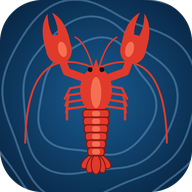
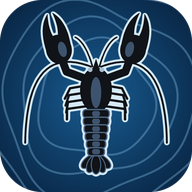
Gjør hummeren i app-ikonet svart
Levende hummer er svart, ikke rød. Hummeren har blågrå glans på ryggen
og en tynn lys kant rundt, så den synes mot det mørke havet også i små
størrelser.

Changed region(s): [[0.0938, 0.0625, 0.9062, 0.9375]]

diff --git a/scripts/lag_ikoner.py b/scripts/lag_ikoner.py
@@ -1,7 +1,8 @@
 """Tegn app-ikonene (PNG) til app/ikoner/.
 
-Motiv: rød hummer sett ovenfra på mørkt hav med dybdekurver. Tegnes i stor
-størrelse og skaleres ned, så kantene blir glatte.
+Motiv: svart hummer (slik den er levende, før den kokes) sett ovenfra på mørkt
+hav med dybdekurver. Hummeren har blågrå glans og en lys kant rundt, så den synes
+mot havet. Tegnes i stor størrelse og skaleres ned, så kantene blir glatte.
 
   ikon-192.png, ikon-512.png  vanlige ikoner (avrundede hjørner)
   ikon-maskable-512.png       Android «adaptive icon»: helt utfylt, motivet innenfor trygg sone
@@ -14,7 +15,7 @@ Kjør fra roten av repoet:  python scripts/lag_ikoner.py
 import math
 import sys
 
-from PIL import Image, ImageDraw
+from PIL import Image, ImageDraw, ImageFilter
 
 from config import ROOT
 
@@ -23,10 +24,11 @@ UT = ROOT / "app" / "ikoner"
 HAV_GRUNT = (24, 92, 146)   # midt i ikonet
 HAV_DYPT = (7, 32, 60)      # ut mot kantene
 KURVE = (127, 184, 224, 95)
-HUMMER = (224, 58, 44)
-HUMMER_LYS = (245, 112, 82)
-HUMMER_MORK = (128, 24, 18)
-OYE = (30, 8, 6)
+HUMMER = (16, 19, 24)          # nesten svart
+HUMMER_GLANS = (62, 84, 110)   # blågrå glans på ryggen, som på levende hummer
+HUMMER_LEDD = (78, 104, 134)   # leddene i halen og vifta
+OYE = (170, 190, 210)
+KANT = (214, 234, 247)         # lys kant rundt hummeren
 
 STOR = 2048  # tegnestørrelse før nedskalering
 
@@ -117,19 +119,19 @@ def hummer(motiv_andel: float) -> Image.Image:
             ytterkant = klopunkter((f * 0.072, 0.0), (f * 0.085, 0.15), (f * 0.014, 0.215))
             innerkant = klopunkter((f * 0.014, 0.215), (f * 0.034, 0.12), (f * 0.007, 0.06))
             d.polygon(ytterkant + innerkant, fill=HUMMER)
-        d.polygon(ellipse(*i_klo(side * -0.02, -0.005), 0.024, 0.045, math.degrees(v)), fill=HUMMER_LYS)
+        d.polygon(ellipse(*i_klo(side * -0.02, -0.005), 0.024, 0.045, math.degrees(v)), fill=HUMMER_GLANS)
 
     # Halevifta: fem fliker som sprer seg ut fra enden av halen (tegnes først, under halen)
     feste = (0.5, 0.815)
     for vinkel in (-50, 50, -25, 25, 0):
         a = math.radians(vinkel)
         cx, cy = feste[0] + math.sin(a) * 0.052, feste[1] + math.cos(a) * 0.052
-        d.polygon(ellipse(cx, cy, 0.03, 0.058, -vinkel), fill=HUMMER, outline=HUMMER_MORK, width=b(0.006))
+        d.polygon(ellipse(cx, cy, 0.03, 0.058, -vinkel), fill=HUMMER, outline=HUMMER_LEDD, width=b(0.006))
 
     # Ryggskjold med pigg (rostrum) foran
     d.polygon([p(0.5, 0.255), p(0.476, 0.33), p(0.524, 0.33)], fill=HUMMER)
     d.polygon(ellipse(0.5, 0.435, 0.092, 0.13), fill=HUMMER)
-    d.polygon(ellipse(0.5, 0.45, 0.03, 0.09), fill=HUMMER_LYS)
+    d.polygon(ellipse(0.5, 0.45, 0.03, 0.09), fill=HUMMER_GLANS)
     for side in (-1, 1):
         x, y = p(0.5 + side * 0.034, 0.318)
         r = b(0.014)
@@ -140,14 +142,24 @@ def hummer(motiv_andel: float) -> Image.Image:
         topp = 0.545 + i * 0.044
         (x0, y0), (x1, y1) = p(0.5 - bredde / 2, topp), p(0.5 + bredde / 2, topp + 0.054)
         d.rounded_rectangle((x0, y0, x1, y1), radius=b(0.022), fill=HUMMER,
-                            outline=HUMMER_MORK, width=b(0.008))
+                            outline=HUMMER_LEDD, width=b(0.008))
         (x0, y0), (x1, y1) = p(0.5 - 0.022, topp + 0.012), p(0.5 + 0.022, topp + 0.042)
-        d.rounded_rectangle((x0, y0, x1, y1), radius=b(0.012), fill=HUMMER_LYS)
+        d.rounded_rectangle((x0, y0, x1, y1), radius=b(0.012), fill=HUMMER_GLANS)
     return lag
 
 
+def med_kant(lag: Image.Image, bredde: float = 0.011) -> Image.Image:
+    """Legg en lys kant rundt motivet, så den svarte hummeren synes mot det mørke havet."""
+    # Uskarp kopi av omrisset, gjort skarp igjen med en lav terskel: et litt større omriss
+    alfa = lag.getchannel("A").filter(ImageFilter.GaussianBlur(bredde * STOR / 1.9))
+    alfa = alfa.point(lambda v: 255 if v > 8 else 0).filter(ImageFilter.GaussianBlur(2))
+    kant = Image.new("RGBA", lag.size, KANT)
+    kant.putalpha(alfa)
+    return Image.alpha_composite(kant, lag)
+
+
 def tegn(avrundet: bool, motiv_andel: float) -> Image.Image:
-    bilde = Image.alpha_composite(hav(), hummer(motiv_andel))
+    bilde = Image.alpha_composite(hav(), med_kant(hummer(motiv_andel)))
     if avrundet:  # klipp alt til avrundede hjørner til slutt
         maske = Image.new("L", bilde.size, 0)
         ImageDraw.Draw(maske).rounded_rectangle((0, 0, STOR - 1, STOR - 1), radius=int(STOR * 0.22), fill=255)
